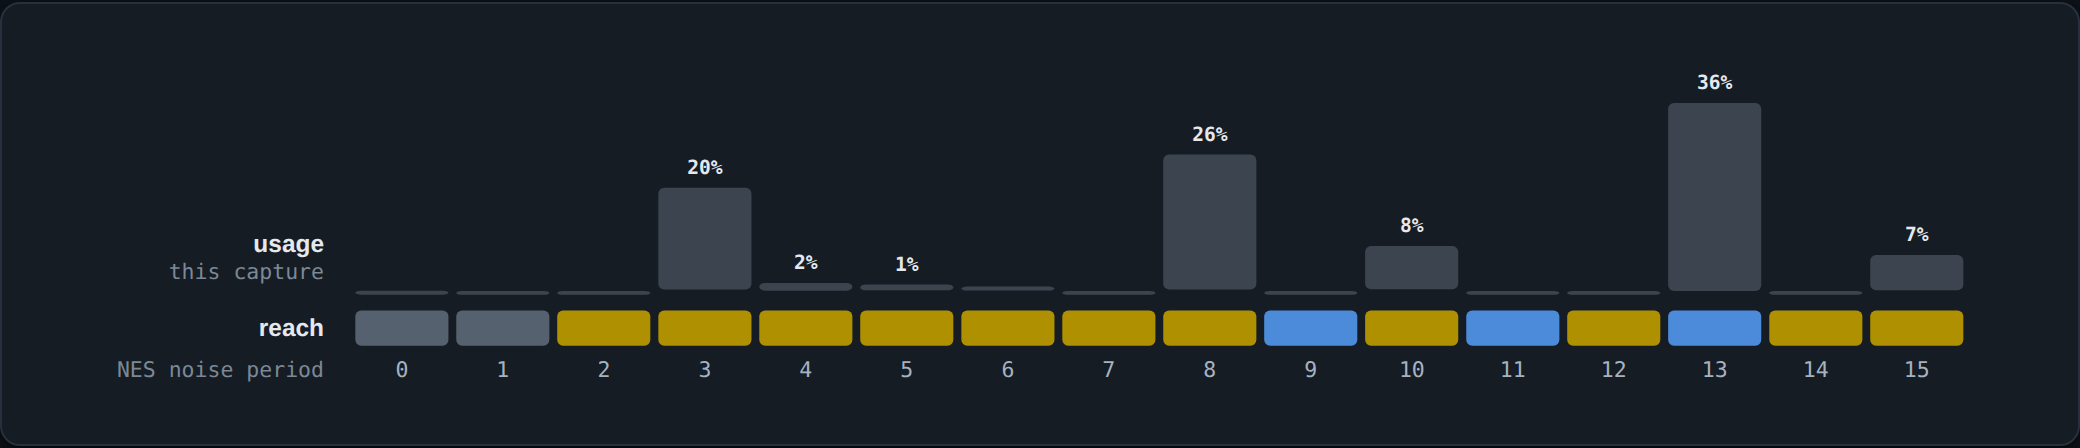
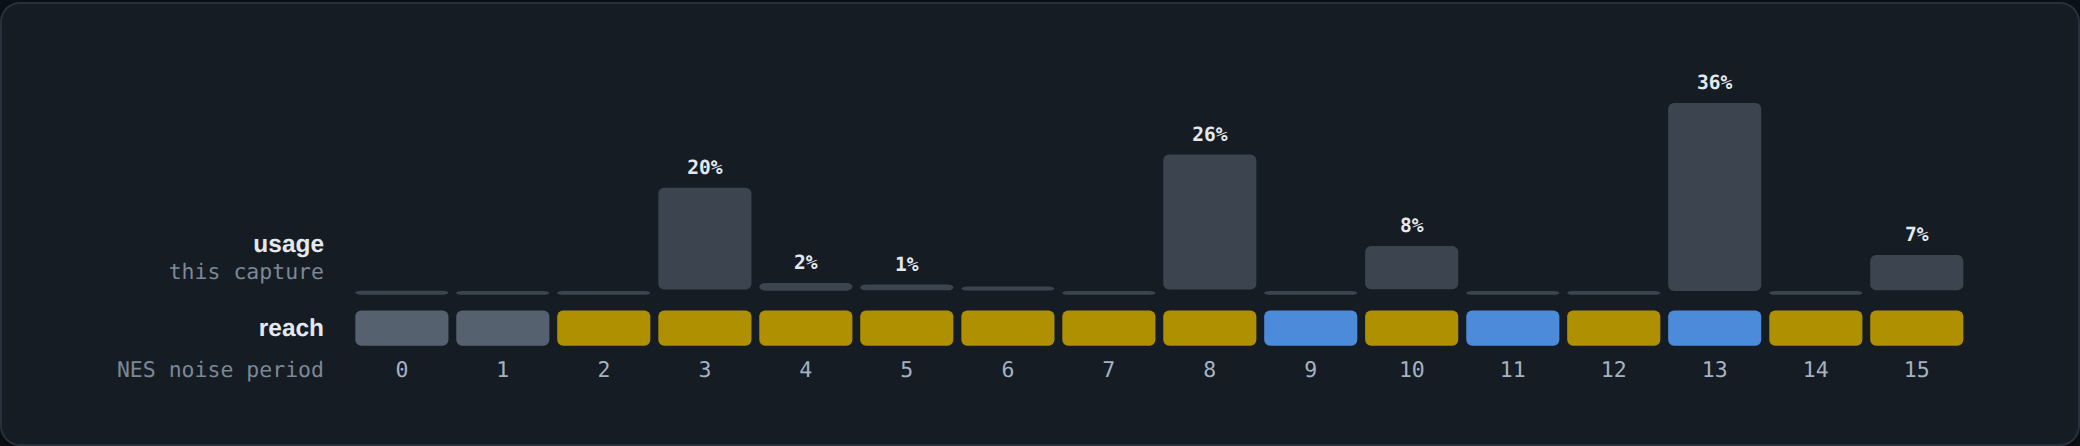
Check the noise behaviour against a reference implementation
Reasoning from documented figures got the shift-rate divisor backwards once
already, so this checks the four assumptions the noise code rests on against
MAME's SN76496 emulation. Two hold, two did not.

Confirmed: the shift rate is clock/(32*P) -- the noise counter reloads with tone
3's period doubled at the internal clock/16, one shift per expiry, which is also
how the fixed settings come out as clock/512, /1024, /2048. And the noise control
register reseeds the shift register on every write, not only on a mode change,
since the Sega part is not the NCR variant; the change-guard in noiseOut() is
therefore a correctness requirement.

Corrected: the Sega PSG's shift register is 16 bits, not the discrete SN76489's
15 (feedback mask 0x8000 against 0x4000, taps 0x01/0x08 against 0x01/0x02).
Periodic mode is a pure rotate, so it pulses once per register width -- every
periodic-mode mapping was about a semitone flat. Table recomputed.

Corrected: a DAC voice is exactly 6 dB quieter than the same channel making a
tone. The Sega part takes a period of 0 literally where a discrete SN76489
substitutes 0x400, so the channel toggles every internal clock and the output
filter averages it to half the attenuator's level -- which is both why the trick
is Sega-specific and why the fundamental is (2/pi)(V/2) against a hardware
square's (2/pi)V. Hardware-path voices now carry +3 attenuation steps, or a pulse
would jump 6 dB louder the moment it crossed the pitch ceiling.
[…]

diff --git a/technique-map.html b/technique-map.html
@@ -321,10 +321,16 @@ footer { border-top: 1px solid var(--rule); padding-top: 22px; color: var(--ink-
     and channel 2's period is 10 bits &mdash; which brings 14 of the 16 within 3%. The two fastest
     are out of range: they want shift-register periods below 1.</p>
     <p>The shift register advances once per tone-3 output cycle, so its rate is clock/(32&thinsp;&times;&thinsp;P).
-    That divisor is worth stating because getting it wrong puts every drum an octave out: the three fixed
-    rates are documented both as clock/512, /1024, /2048 <em>and</em> as tone periods 0x10, 0x20, 0x40, and
-    only this reading satisfies both. It also places the fixed rates on periods 9, 11 and 13 &mdash; to within
-    0.8%, which is presumably why the chip has them.</p>
+    That divisor is worth stating because getting it wrong puts every drum an octave out &mdash; and reasoning
+    from the documented figures alone got it backwards here once. The reference implementation settles it:
+    the noise counter reloads with tone&nbsp;3's period doubled, one shift per expiry, which is also how the
+    fixed settings come out as clock/512, /1024 and /2048. It places those three on periods 9, 11 and 13, to
+    within 0.8% &mdash; presumably why the chip has them.</p>
+    <p>Two more things the same source settles. Writing tone&nbsp;2's period updates the noise rate
+    immediately while mode&nbsp;3 is selected, so drum pitch can move without retriggering. And the noise
+    control register reseeds the shift register on <em>every</em> write, not only when the mode bit changes
+    &mdash; the Sega part is not the NCR variant. The Sega shift register is also 16 bits wide rather than
+    the SN76489's 15, which shifts every periodic-mode mapping by a semitone.</p>
     <p>The price used to be channel 2, which is where the triangle lived. With the triangle on FM there is
     nothing to pay, so this mode is simply on &mdash; and it stays on rate 3 for every period rather than
     switching back and forth, because writing the noise control register resets the shift register and a
@@ -376,7 +382,7 @@ footer { border-top: 1px solid var(--rule); padding-top: 22px; color: var(--ink-
       <span class="lab">Tone-clocked noise</span>
       <h3>Channel 2 as a shift clock</h3>
       <p>Turns 3 reachable noise periods into 14, in both long and short mode. Short mode needs its own
-      table: the NES sequence is 93 steps to the PSG's 15, so it matches pitch rather than clock &mdash; which
+      table: the NES sequence is 93 steps to the Sega PSG's 16, so it matches pitch rather than clock &mdash; which
       also lifts the two fastest periods back into range.</p>
       <p class="cost"><b>costs</b> nothing, once the triangle is on FM &middot; <b>gives</b> the drum kit</p>
     </div>

diff --git a/GeNESis-APU2PSG.c b/GeNESis-APU2PSG.c
@@ -83,19 +83,51 @@ static const u8 nesVolToAtten[16] = {15, 12, 9, 7, 6, 5, 4, 3, 3, 2, 2, 1, 1, 1,
 // Duty as a threshold on the phase accumulator's high byte.
 static const u8 dutyThreshold[4] = {32, 64, 128, 192};   // 12.5, 25, 50, 75 %
 
+// A DAC-mode voice is exactly 6 dB quieter than the same channel making a tone.
+//
+// The Sega PSG takes a period of 0 literally rather than substituting 0x400 the
+// way a discrete SN76489 does, so the channel toggles every internal clock: a
+// 112 kHz square that the output filter averages to half the attenuator's level.
+// That halving is what the volume DAC modulates, so its fundamental is (2/pi)(V/2)
+// where a hardware square at the same attenuation gives (2/pi)V -- a factor of
+// two on the nose. Without this, a pulse crossing the pitch ceiling would jump
+// 6 dB louder at the handover. Attenuation is 2 dB a step, so the correction is 3.
+#define HW_ATTEN_OFFSET 3
+
+static inline u8 hwAtten(u8 att)
+{
+    u16 a = att + HW_ATTEN_OFFSET;
+    return (a > 15) ? 15 : (u8)a;
+}
+
 // Channel-2 tone period that clocks the noise generator at the NES rate.
 //
 // The shift register advances once per tone-3 output cycle, so its rate is
-// clock/(32*P) -- the same as the tone frequency, not twice it. Two documented
-// facts pin this down and agree: the three fixed rates are clock/512, /1024,
-// /2048, and they are equivalent to tone periods 0x10, 0x20, 0x40. Only
-// clock/(32*P) satisfies both. Getting this wrong puts every drum an octave out.
+// clock/(32*P) -- the same as the tone frequency, not twice it. MAME settles it:
+// the noise counter reloads with (tone-3 period << 1) at the internal clock/16,
+// one shift per expiry, which is also how the fixed settings come out as
+// clock/512, /1024 and /2048. Getting this wrong puts every drum an octave out.
+//
+// Two more things the reference implementation settles, both of which this code
+// depends on:
+//   - Writing tone channel 2's period updates the noise rate immediately while
+//     mode 3 is selected, without touching the noise control register. So drum
+//     pitch can move without retriggering the sequence.
+//   - Writing the noise control register reseeds the shift register on every
+//     write, not only when the mode bit changes -- the Sega part is not the
+//     NCR variant. Hence the change-guard in noiseOut().
 //
 // White (long) mode matches the shift rate. Periodic (short) mode matches
-// perceived pitch instead, because the NES's short sequence is 93 steps to the
-// PSG's 15 and matching the clock would put it six octaves out.
+// perceived pitch instead, because matching the clock would put it octaves out:
+// the NES's short sequence is 93 steps, and the PSG's periodic mode is a pure
+// rotate of the shift register, so it pulses once per register width.
+//
+// That width is 16 on the Sega PSG, not the discrete SN76489's 15 -- the Sega
+// part widened it (MAME: feedback mask 0x8000 versus 0x4000, taps 0x01/0x08
+// versus 0x01/0x02). Using 15 here puts every periodic drum about a semitone
+// flat. Indices 0 and 15 are unreachable and pin at the ends.
 static const u16 noisePeriodWhite[16]    = {1, 1, 1, 2, 4, 6, 8, 10, 13, 16, 24, 32, 48, 63, 127, 254};
-static const u16 noisePeriodPeriodic[16] = {2, 3, 6, 12, 25, 37, 50, 62, 78, 98, 147, 197, 295, 394, 788, 1023};
+static const u16 noisePeriodPeriodic[16] = {1, 3, 6, 12, 23, 35, 46, 58, 73, 92, 138, 185, 277, 369, 739, 1023};
 
 // Nearest of the PSG's three fixed noise rates, and whether that nearest is more
 // than 25% out. The fixed rates land on indices 9, 11 and 13 -- to within 0.8%,
@@ -491,7 +523,7 @@ static void synthUpdate(void)
         {
             PSGDAC_setPulse(i, 0, 0, 15, 0);
             toneOut(i, period + 1);         // PSG clock is exactly 2x the NES's,
-            attenOut(i, att);               // and it divides by 32 to the NES's 16
+            attenOut(i, hwAtten(att));      // and it divides by 32 to the NES's 16
         }
         voiceIsDac[i] = useDac;
     }
@@ -540,7 +572,7 @@ static void synthUpdate(void)
         if (p < 1) p = 1;
         PSGDAC_setWave(0, 0);
         toneOut(2, (u16)p);
-        attenOut(2, nesVolToAtten[12]);     // NES triangle has no volume control
+        attenOut(2, hwAtten(nesVolToAtten[12]));  // NES triangle has no volume control
         triSource = TRI_HW;
     }
 
@@ -570,7 +602,7 @@ static void synthUpdate(void)
         {
             noiseOut(white, noiseFixedRate[noisePeriodIdx]);
         }
-        attenOut(3, nesVolToAtten[noiseVol]);
+        attenOut(3, hwAtten(nesVolToAtten[noiseVol]));
     }
     else
     {

diff --git a/tools/build_map.py b/tools/build_map.py
@@ -595,10 +595,16 @@ footer { border-top: 1px solid var(--rule); padding-top: 22px; color: var(--ink-
     and channel 2's period is 10 bits &mdash; which brings {REACHABLE} of the 16 within 3%. The two fastest
     are out of range: they want shift-register periods below 1.</p>
     <p>The shift register advances once per tone-3 output cycle, so its rate is clock/(32&thinsp;&times;&thinsp;P).
-    That divisor is worth stating because getting it wrong puts every drum an octave out: the three fixed
-    rates are documented both as clock/512, /1024, /2048 <em>and</em> as tone periods 0x10, 0x20, 0x40, and
-    only this reading satisfies both. It also places the fixed rates on periods 9, 11 and 13 &mdash; to within
-    0.8%, which is presumably why the chip has them.</p>
+    That divisor is worth stating because getting it wrong puts every drum an octave out &mdash; and reasoning
+    from the documented figures alone got it backwards here once. The reference implementation settles it:
+    the noise counter reloads with tone&nbsp;3's period doubled, one shift per expiry, which is also how the
+    fixed settings come out as clock/512, /1024 and /2048. It places those three on periods 9, 11 and 13, to
+    within 0.8% &mdash; presumably why the chip has them.</p>
+    <p>Two more things the same source settles. Writing tone&nbsp;2's period updates the noise rate
+    immediately while mode&nbsp;3 is selected, so drum pitch can move without retriggering. And the noise
+    control register reseeds the shift register on <em>every</em> write, not only when the mode bit changes
+    &mdash; the Sega part is not the NCR variant. The Sega shift register is also 16 bits wide rather than
+    the SN76489's 15, which shifts every periodic-mode mapping by a semitone.</p>
     <p>The price used to be channel 2, which is where the triangle lived. With the triangle on FM there is
     nothing to pay, so this mode is simply on &mdash; and it stays on rate 3 for every period rather than
     switching back and forth, because writing the noise control register resets the shift register and a
@@ -650,7 +656,7 @@ footer { border-top: 1px solid var(--rule); padding-top: 22px; color: var(--ink-
       <span class="lab">Tone-clocked noise</span>
       <h3>Channel 2 as a shift clock</h3>
       <p>Turns 3 reachable noise periods into {REACHABLE}, in both long and short mode. Short mode needs its own
-      table: the NES sequence is 93 steps to the PSG's 15, so it matches pitch rather than clock &mdash; which
+      table: the NES sequence is 93 steps to the Sega PSG's 16, so it matches pitch rather than clock &mdash; which
       also lifts the two fastest periods back into range.</p>
       <p class="cost"><b>costs</b> nothing, once the triangle is on FM &middot; <b>gives</b> the drum kit</p>
     </div>

diff --git a/README.md b/README.md
@@ -48,7 +48,9 @@ The figures here and in **[the crossover map](https://claude.ai/code/artifact/09
 The PSG's own square wave. Pitch-exact, costs nothing, works at any pitch the chip can reach. Two limits: it is 50% duty and only 50% duty, and its period register is 10 bits, so it bottoms out at **109 Hz**. The NES triangle goes down to 27 Hz. Below 109 Hz the hardware generator does not go flat, it simply cannot go there at all.
 
 ### 2. Volume DAC  *(the main solution)*
-Park the tone period at 0 so the channel outputs DC, then rewrite its attenuation register from a free-running Z80 loop. The attenuator is logarithmic, which turns out to be a gift: scaling a waveform by a volume is *addition* in the log domain, so a whole pulse voice is eight instructions with no wavetable at all —
+Park the tone period at 0 and rewrite the channel's attenuation register from a free-running Z80 loop.
+
+The Sega PSG takes a period of 0 literally, where a discrete SN76489 would substitute 0x400 — so the channel toggles every internal clock, giving a 112 kHz square that the output filter averages to *half* the attenuator's level. That halved level is what the volume DAC modulates, which makes the trick Sega-specific and makes a DAC voice exactly 6 dB quieter than the same channel making a tone: its fundamental is (2/π)(V/2) against a hardware square's (2/π)V. Hardware-path voices therefore carry +3 attenuation steps, or a pulse would jump 6 dB louder the moment it crossed the pitch ceiling. The attenuator is logarithmic, which turns out to be a gift: scaling a waveform by a volume is *addition* in the log domain, so a whole pulse voice is eight instructions with no wavetable at all —
 
 ```
         ld de,DELTA         ; phase += delta
@@ -94,7 +96,14 @@ The PSG's noise generator has three fixed rates. The NES has sixteen periods in 
 
 Fourteen of sixteen. Indices 0 and 1 want a shift-register period below 1 and are out of the chip's reach in white mode — though short mode's ×6.2 pitch factor lifts them back into range.
 
-**The divisor matters more than anything else here.** The shift register advances once per tone-3 *output cycle*, so its rate is clock/(32·P) — the same as the tone frequency, not twice it. Two documented facts pin it down and agree: the three fixed rates are clock/512, /1024 and /2048, *and* they are equivalent to tone periods 0x10, 0x20, 0x40. Only clock/(32·P) satisfies both. Read it the other way and every drum lands an octave out. That reading also places the fixed rates on NES indices **9, 11 and 13**, each to within 0.8% — presumably why the chip has exactly those three.
+**The divisor matters more than anything else here.** The shift register advances once per tone-3 *output cycle*, so its rate is clock/(32·P) — the same as the tone frequency, not twice it. Read it the other way and every drum lands an octave out, which is exactly what happened here on the first pass: reasoning from the documented figures alone produced clock/(16·P). Checking a reference implementation settles it in a minute — the noise counter reloads with tone 3's period *doubled*, at the internal clock/16, one shift per expiry, which is also how the three fixed settings come out as clock/512, /1024 and /2048.
+
+That reading places the fixed rates on NES indices **9, 11 and 13**, each to within 0.8% — presumably why the chip has exactly those three.
+
+Two more things worth knowing, both of which this code leans on:
+
+- **Writing tone 2's period updates the noise rate immediately** while mode 3 is selected, with no write to the noise control register. So drum pitch can be swept without retriggering the sequence.
+- **The noise control register reseeds the shift register on every write**, not only when the mode bit changes — the Sega part is not the NCR variant. That is what makes the change-guard below a correctness requirement rather than an optimisation.
 
 <picture>
   <source media="(prefers-color-scheme: dark)" srcset="docs/noise-coverage-dark.png">
@@ -103,7 +112,9 @@ Fourteen of sixteen. Indices 0 and 1 want a shift-register period below 1 and ar
 
 *All 16 NES noise periods. Blue is reachable with one of the PSG's three fixed rates, gold needs channel 2 as the shift clock, grey is out of range. Bars are each period's share of noise-active frames in the checked-in capture.*
 
-Short (periodic) mode needs a different mapping. The NES's short sequence is 93 steps to the PSG's 15, so matching the shift *rate* would put the pitch six octaves out; the table matches perceived pitch instead. Indices 14 and 15 clamp, at 9.5 Hz and 4.7 Hz, which is below hearing anyway.
+Short (periodic) mode needs a different mapping. The NES's short sequence is 93 steps; the PSG's periodic mode is a pure rotate of its shift register, so it pulses once per register width. Matching the shift *rate* would put the pitch octaves out, so the table matches perceived pitch instead.
+
+That register is **16 bits wide on the Sega PSG**, not the discrete SN76489's 15 — Sega widened it (feedback mask 0x8000 against 0x4000, taps 0x01/0x08 against 0x01/0x02). Using 15 puts every periodic drum about a semitone flat. Indices 0 and 15 are out of reach and pin at the ends; 15 lands at 6.8 Hz against a target of 4.7, which is below hearing either way.
 
 **The price used to be channel 2, which is where the triangle lives** — that was the trade the old TODO asked about. In the checked-in capture, **64.3% of noise-active frames use a period the three fixed rates cannot reach**; index 13 is the one heavily-used period they do cover. With the triangle moved to FM there is nothing left to pay, so this mode is simply on.
 
